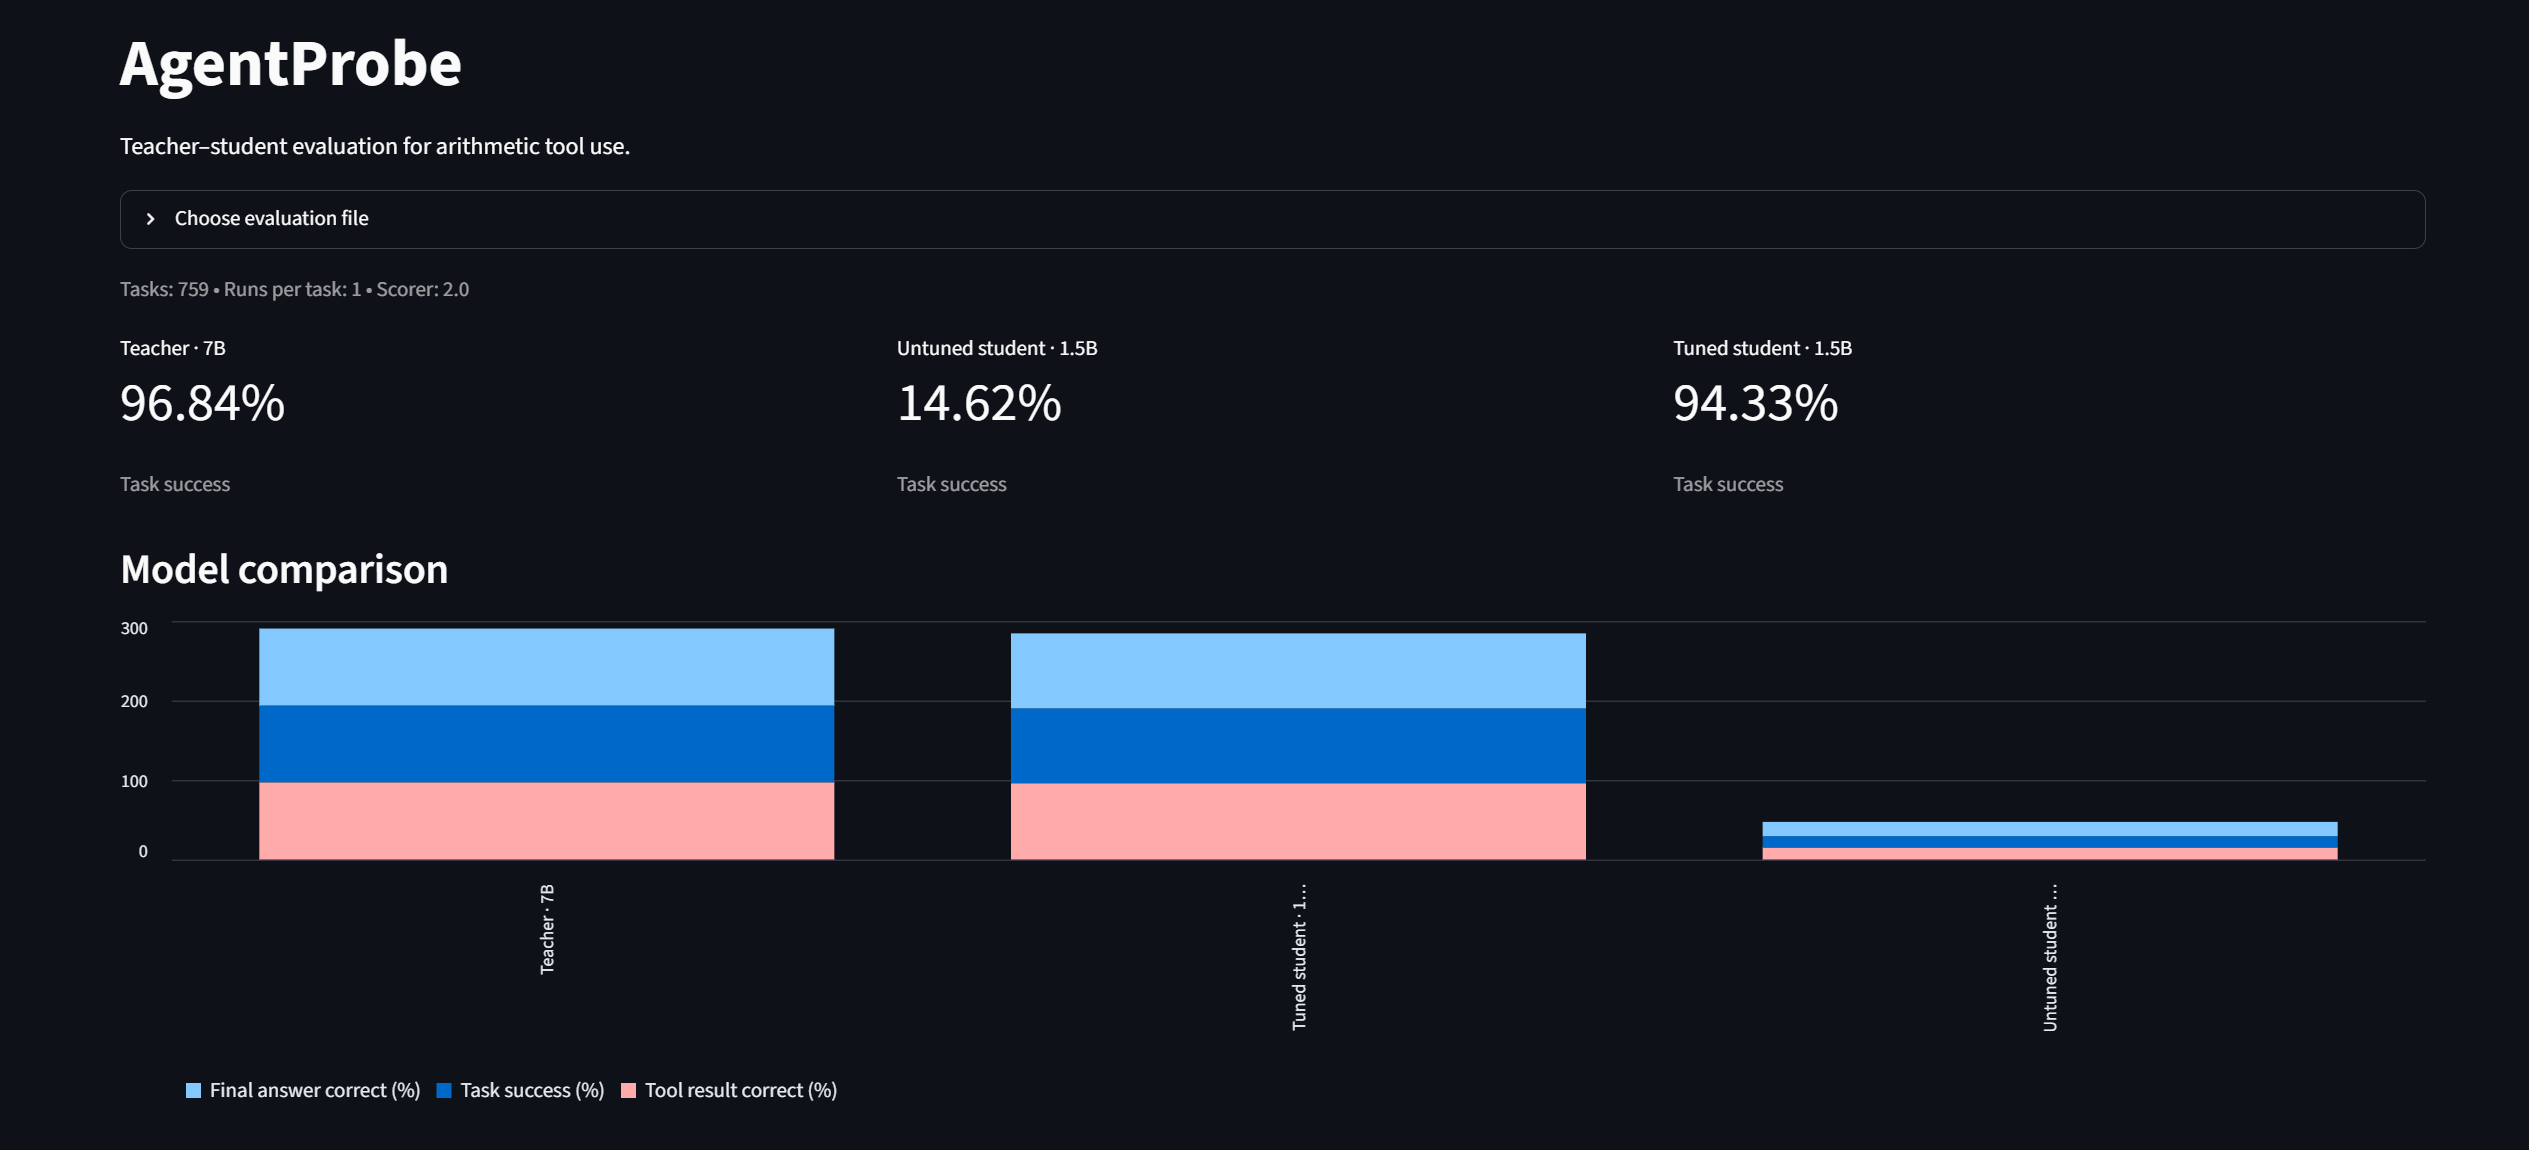
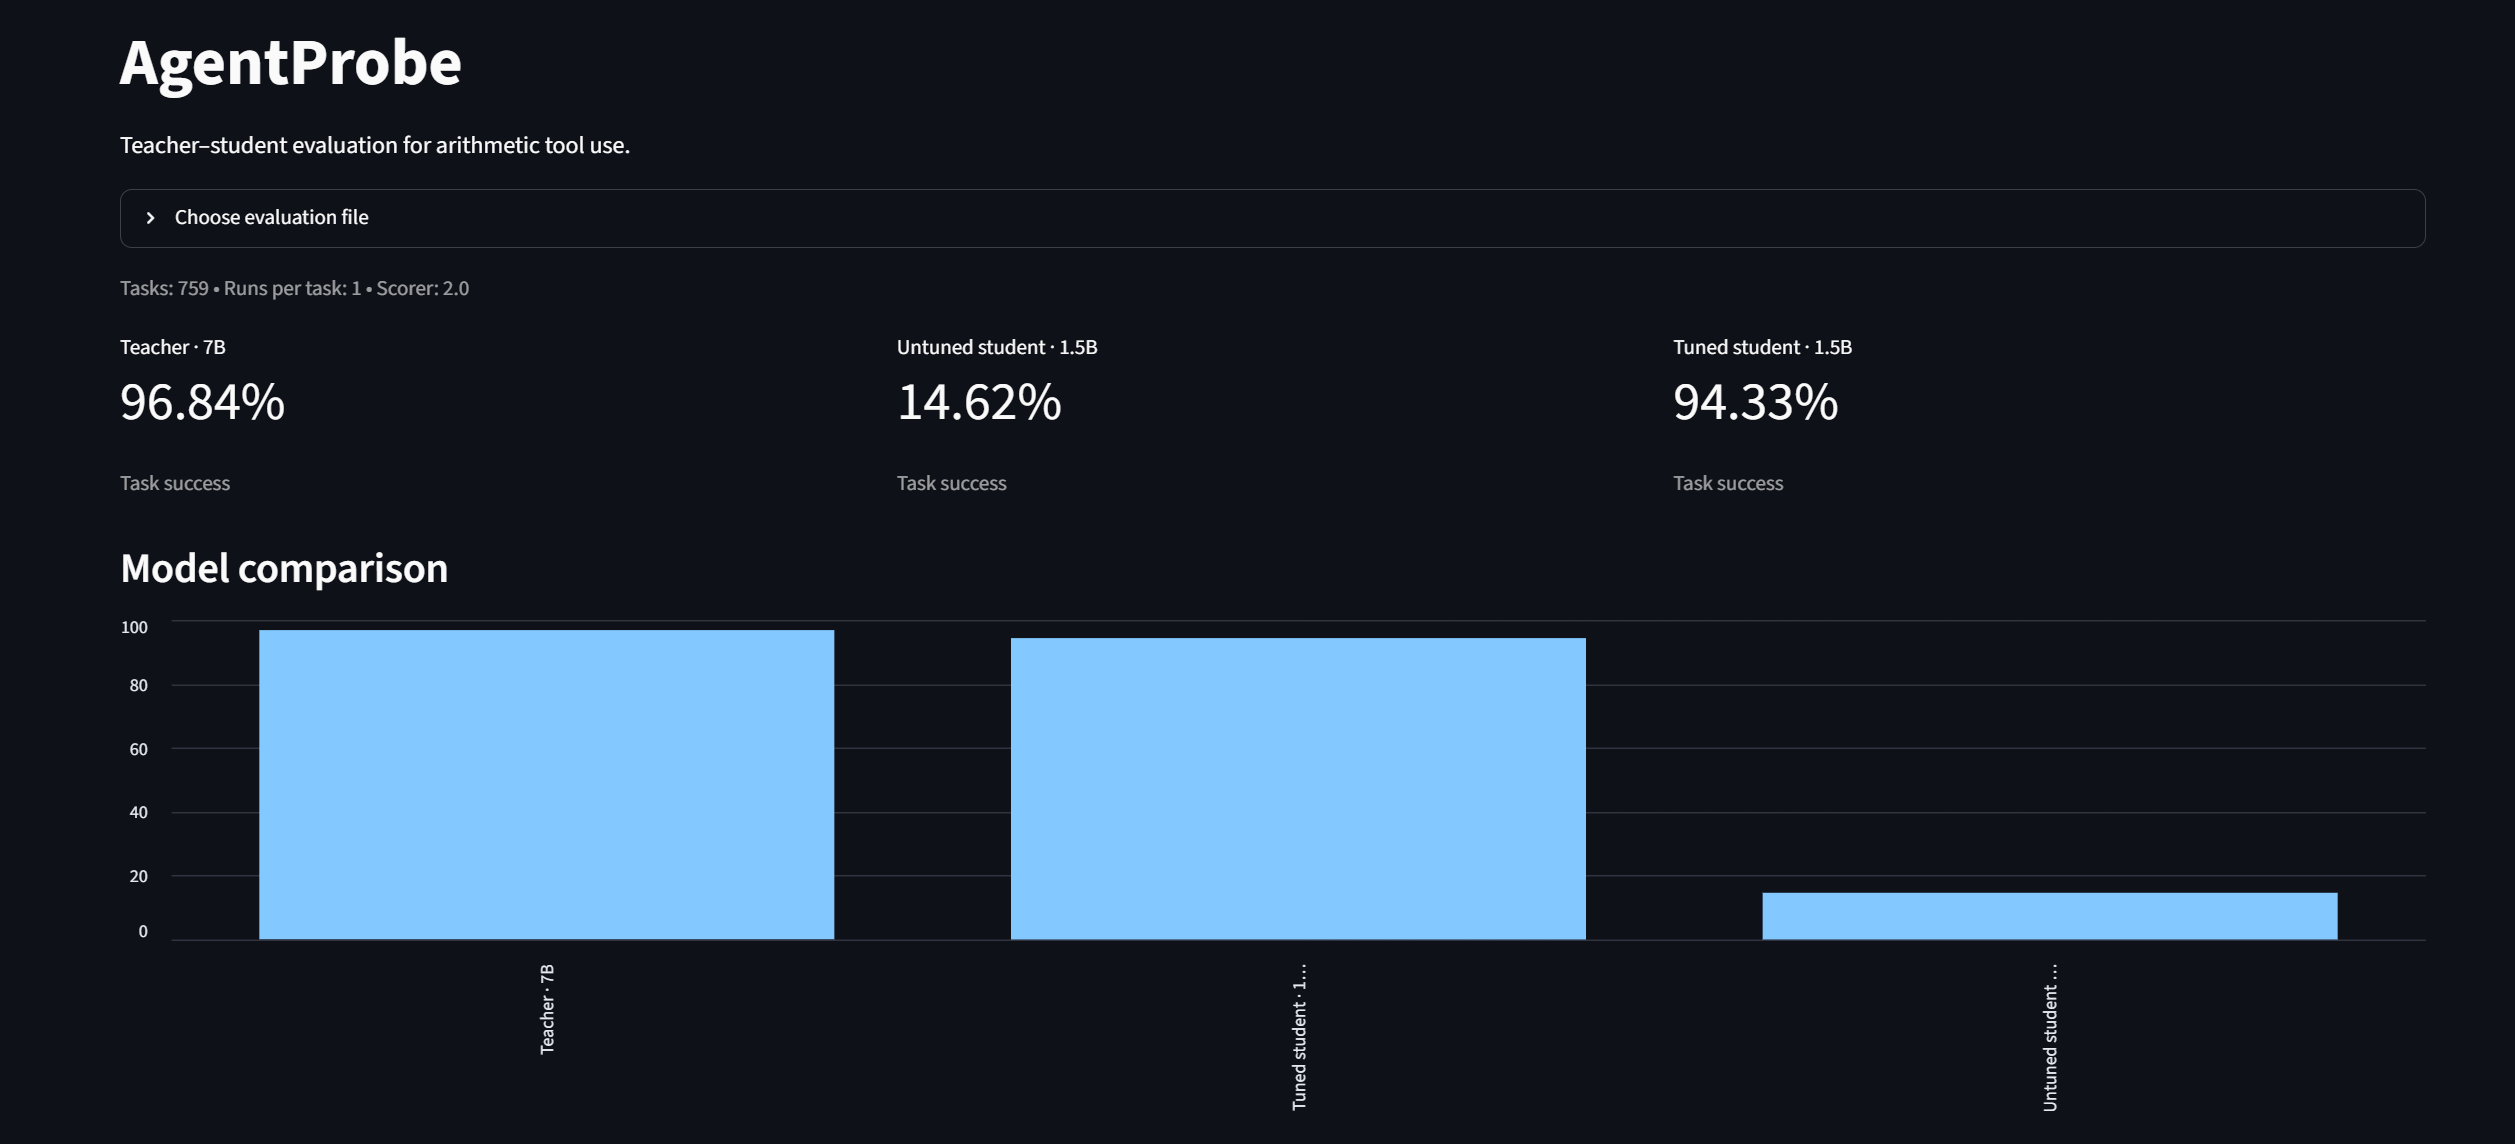
Fix dashboard and replay metrics and capture GPU environment

diff --git a/scripts/capture_gpu_environment.py b/scripts/capture_gpu_environment.py
@@ -1,0 +1,41 @@
+"""Record the current GPU environment without installing or changing packages."""
+import json
+import platform
+import subprocess
+import sys
+from datetime import datetime, timezone
+from importlib.metadata import distributions
+from pathlib import Path
+
+root = Path(__file__).resolve().parents[1]
+packages = {}
+for dist in distributions():
+    name = dist.metadata.get("Name")
+    if name and name.lower().replace("_", "-") != "agentprobe":
+        packages[name] = dist.version
+if "torch" not in {name.lower() for name in packages}:
+    raise SystemExit("Run this script with .venv-gpu/bin/python; torch is missing.")
+result = subprocess.run(
+    ["nvidia-smi", "--query-gpu=name,driver_version,memory.total", "--format=csv,noheader"],
+    check=True, capture_output=True, text=True,
+)
+metadata = {
+    "captured_at_utc": datetime.now(timezone.utc).isoformat(),
+    "note": "Current environment snapshot; not automatic proof of historical experiment identity.",
+    "python": platform.python_version(),
+    "platform": platform.platform(),
+    "gpu_name_driver_memory": result.stdout.strip().splitlines(),
+    "packages": dict(sorted(packages.items(), key=lambda item: item[0].lower())),
+}
+requirements = root / "requirements-gpu.txt"
+requirements.write_text(
+    "# Captured installed versions; not a validated portable GPU lockfile.\n"
+    "# Project editable installation excluded; install this repository separately.\n"
+    "# CUDA wheels need the indexes documented in README.md.\n"
+    + "".join(f"{name}=={version}\n" for name, version in metadata["packages"].items())
+)
+output = root / "docs/results/2026-09-22/gpu_environment.json"
+output.parent.mkdir(parents=True, exist_ok=True)
+output.write_text(json.dumps(metadata, indent=2) + "\n")
+print(f"Recorded {len(packages)} packages in {requirements}")
+print(f"Recorded hardware metadata in {output}")

diff --git a/tests/test_regressions.py b/tests/test_regressions.py
@@ -166,3 +166,32 @@ def test_malformed_teacher_call_preserves_raw_response(monkeypatch):
     monkeypatch.setattr(agent.model_client,"chat",lambda *a,**kw:{"message":{"tool_calls":[{}]}})
     action=agent.OllamaProvider().act("q",[])
     assert action.error and 'tool_calls' in action.raw
+
+
+def test_replay_preserves_parse_error_runs(tmp_path, monkeypatch):
+    import sys
+    from agentprobe import replay
+    from types import SimpleNamespace
+    task = SimpleNamespace(task_id="replay_parse", answer=7.0,
+                           reference_tools=["add"], min_steps=1)
+    record = {
+        "task_id": task.task_id, "model": "fixture",
+        "final_answer": "Answer: 7", "termination": "model_final",
+        "steps": [
+            {"tool": "(parse)", "args": {}, "result": "bad format",
+             "status": "error", "kind": "parse"},
+            {"tool": "add", "args": {"a": 3, "b": 4}, "result": "7",
+             "status": "ok", "kind": "tool"},
+        ],
+    }
+    source, output = tmp_path / "trace.jsonl", tmp_path / "summary.json"
+    source.write_text(json.dumps(record) + "\n")
+    monkeypatch.setattr(replay, "load_test", lambda: [task])
+    monkeypatch.setattr(sys, "argv", ["replay", "--input", str(source),
+                                     "--output", str(output)])
+    replay.main()
+    summary = json.loads(output.read_text())["models"][0]
+    assert summary["parse_error_runs"] == 1
+    assert summary["task_success_rate"] == 1
+    assert summary["error_rate_micro"] == 0
+    assert summary["recovery_rate"] == 1

diff --git a/src/agentprobe/replay.py b/src/agentprobe/replay.py
@@ -26,7 +26,8 @@ def main():
         tool_steps = [s for s in traj.steps if s.kind == 'tool']
         failed = sum(is_error(s) for s in tool_steps)
         score.update(tool_calls=len(tool_steps),failed_tool_calls=failed,
-                     tool_error_rate=failed/len(tool_steps) if tool_steps else 0)
+                     tool_error_rate=failed/len(tool_steps) if tool_steps else 0,
+                     parse_errors=sum(s.kind == "parse" for s in traj.steps))
         groups[record['model']].append(score)
     result = {'status':'replay_only','scorer_version':'2.0',
               'warning':'Rescoring cannot restore actions discarded by the old parser. Fresh inference is required.',

diff --git a/src/agentprobe/dashboard.py b/src/agentprobe/dashboard.py
@@ -114,7 +114,7 @@ chart = pd.DataFrame(
     ]
 ).set_index("Model")
 
-st.bar_chart(chart)
+st.bar_chart(chart[["Task success (%)"]])
 
 summary = pd.DataFrame(
     [
@@ -137,7 +137,7 @@ summary = pd.DataFrame(
     ]
 )
 
-st.dataframe(summary, hide_index=True, use_container_width=True)
+st.dataframe(summary, hide_index=True, width="stretch")
 
 st.caption(
     "Tool error rate measures failed tool executions. Parsing errors and "
@@ -178,7 +178,7 @@ for model in models:
         st.dataframe(
             family_table,
             hide_index=True,
-            use_container_width=True,
+            width="stretch",
         )
 
 st.info(

diff --git a/README.md b/README.md
@@ -200,6 +200,12 @@ as validated current results.
 - Fixed reference paths are diagnostics, not a proof that other paths are invalid.
 - Untuned performance measures this exact prompt, protocol and parser. It does
   not establish that a model is generally incapable of tool use.
+- An audit found 26 test questions mathematically equivalent to questions in the
+  full training pool after swapping the first two operands. Of the prepared
+  examples, 12 test questions have equivalents in training and 2 in validation.
+  Excluding all 26 as a post-hoc sensitivity check gives tuned success of
+  690/733 (94.13%); this does not replace the original benchmark. Future datasets
+  should group equivalent questions before splitting.
 - Exact question separation does not establish absence of semantic similarity.
   The two held-out task families account for 400 of the 759 test tasks.
 - Zero tool execution errors does not mean zero parsing errors or incorrect
@@ -217,6 +223,15 @@ as validated current results.
 See [the implementation handoff](docs/FIX_HANDOFF.md) for the original changes
 and planned checks. GPU training and evaluation have since completed as
 documented above.
+
+## Capturing the GPU environment
+
+Run `.venv-gpu/bin/python scripts/capture_gpu_environment.py` on the machine
+used for inference. It records the currently installed package versions in
+`requirements-gpu.txt` and hardware details in `docs/results/2026-09-22/gpu_environment.json`.
+The snapshot excludes the editable project path. It is environment evidence,
+not a validated portable lockfile; use the documented CUDA indexes when testing
+a clean installation. Capture time is recorded separately from experiment time.
 
 ## License
 
